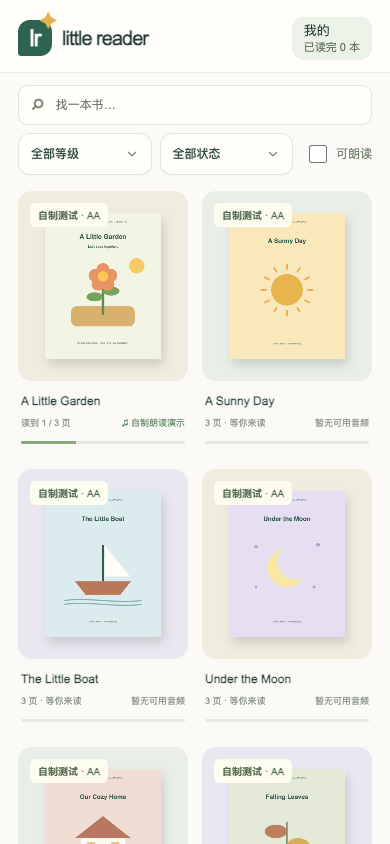
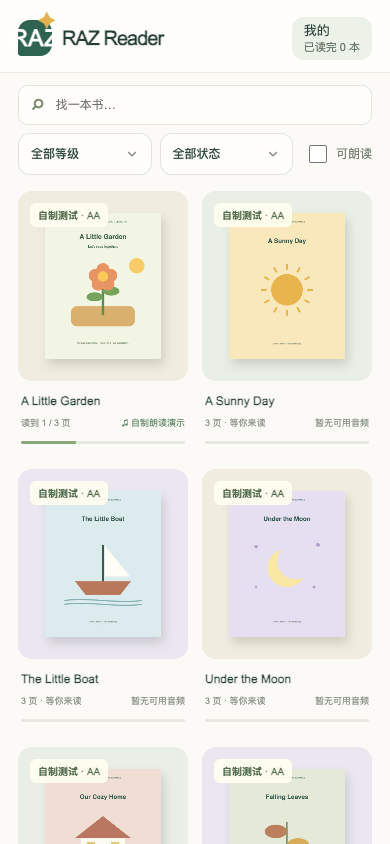
Rename project to RAZ Reader and improve RAZ discovery

Changed region(s): [[0.0308, 0.0, 0.4308, 0.0616]]

diff --git a/web/app.js b/web/app.js
@@ -1,3 +1,4 @@
+// Keep legacy storage keys so the project rename preserves existing reading preferences and pending writes.
 import * as pdfjs from '/vendor/pdfjs/build/pdf.mjs';
 import { captureProgress, pendingProgress, syncProgress, flushProgress, isLatestProgress, configureProgress } from '/progress.js';
 import { readingState, mostRecentFirst, shelfOrder } from '/reading.js';
@@ -318,13 +319,13 @@ function readerFailed() {
   setReadingControls(false);
   $('page-number').textContent = '打开失败，请重试';
   $('retry-reader').hidden = false;
-  document.title = 'Little Reader · 打开失败';
+  document.title = 'RAZ Reader · 打开失败';
 }
 function loadPDFReader() {
   cancelReaderLoad();
   const generation = renderGeneration;
   $('page-number').textContent = readerAttempts ? '正在重新打开…' : '正在打开…';
-  document.title = 'Little Reader · 正在打开';
+  document.title = 'RAZ Reader · 正在打开';
   $('pdf-frame').src = '/vendor/pdfjs/web/viewer.html?file=' + encodeURIComponent(current.pdf_url)
     + '&session=' + generation + '-' + readerAttempts;
   readerTimer = setTimeout(() => {
@@ -391,7 +392,7 @@ document.addEventListener('webviewerloaded', event => {
       app.pdfViewer.currentScaleValue = 'page-fit';
       app.page = page;
       ready = true;
-      cancelReaderLoad(); document.title = `${current.title} · Little Reader`;
+      cancelReaderLoad(); document.title = `${current.title} · RAZ Reader`;
       updatePage(page); saveProgress();
     });
     app.eventBus.on('pagechanging', event => {
@@ -588,7 +589,7 @@ $('prev').onclick = () => { pendingAudioAdvance = false; navigate(-1); };
 $('next').onclick = () => { pendingAudioAdvance = false; navigate(1); };
 $('complete').onclick = () => { if (current && ready) { current.progress.completed = true; saveProgress(); } };
 $('back').onclick = async () => {
-  cancelReaderLoad(); document.title = 'Little Reader';
+  cancelReaderLoad(); document.title = 'RAZ Reader';
   unbindWordLookup?.(); unbindWordLookup = null; wordLookup.close();
   translation.reset();
   const saved = saveProgress();

diff --git a/web/index.html b/web/index.html
@@ -2,7 +2,8 @@
 <html lang="zh-CN">
 <head>
   <meta charset="utf-8"><meta name="viewport" content="width=device-width, initial-scale=1">
-  <link rel="icon" href="/favicon.svg"><title>Little Reader · Graded Reading</title>
+  <link rel="icon" href="/favicon.svg"><title>RAZ Reader · Graded Reading &amp; Pronunciation</title>
+  <meta name="description" content="An unofficial open-source RAZ reader for graded English reading, narration, progress tracking, and pronunciation practice. Bring your own books.">
   <link rel="stylesheet" href="/app.css">
   <link rel="stylesheet" href="/reader-toolbar.css">
   <link rel="stylesheet" href="/personal-center.css">
@@ -12,7 +13,7 @@
 <body>
   <div id="shelf">
     <aside class="sidebar">
-      <div class="brand-row"><a class="brand" href="/" aria-label="Little Reader 首页"><span class="brand-icon">lr<span>✦</span></span>little reader</a><button id="open-personal-center" aria-label="登陆，进入个人中心" aria-describedby="shelf-read-count"><span class="personal-entry-text"><span id="personal-entry-label">登陆</span><small id="shelf-read-count" hidden></small></span></button></div>
+      <div class="brand-row"><a class="brand" href="/" aria-label="RAZ Reader 首页"><span class="brand-icon">RAZ<span>✦</span></span>RAZ Reader</a><button id="open-personal-center" aria-label="登陆，进入个人中心" aria-describedby="shelf-read-count"><span class="personal-entry-text"><span id="personal-entry-label">登陆</span><small id="shelf-read-count" hidden></small></span></button></div>
     </aside>
     <main class="library">
       <div class="shelf-toolbar"><div class="shelf-heading"><h2 id="level-title">全部绘本 <span id="book-count"></span></h2><p id="level-description">正在加载本地书库…</p></div><label class="search">⌕ <input id="search" type="search" placeholder="找一本书…" aria-label="搜索书名"></label></div>

diff --git a/web/app.css b/web/app.css
@@ -258,3 +258,6 @@ select{font:inherit;color:inherit;min-height:44px;border:1px solid #dce3dc;borde
 .cloud-reading #translate-page,
 .cloud-reading #word-lookup-hint,
 .cloud-reading .book-rating { display: none !important; }
+
+/* Compact RAZ wordmark; retain the original touch target and star. */
+.brand-icon{font-size:12px;letter-spacing:.5px;font-weight:800}

diff --git a/web/personal-center.js b/web/personal-center.js
@@ -1,3 +1,4 @@
+// Keep legacy storage keys so the project rename preserves existing reading preferences and pending writes.
 import { readingState, mostRecentFirst } from '/reading.js';
 import { scopeHeaders } from '/identity.js';
 const $ = id => document.getElementById(id);

diff --git a/web/progress.js b/web/progress.js
@@ -1,3 +1,4 @@
+// Keep legacy storage keys so the project rename preserves existing reading preferences and pending writes.
 // A small local outbox: only book identifiers and progress, never reading media.
 const PREFIX = 'little-reader:pending:';
 const streams = new Map();

diff --git a/scripts/prepare_demo.py b/scripts/prepare_demo.py
@@ -57,10 +57,10 @@ def artwork(c, kind):
 
 def example_pdf(path, title, kind, background, sentences):
     c=canvas.Canvas(str(path),pagesize=(600,760),invariant=1)
-    c.setTitle(title);c.setAuthor('Little Reader contributors — original example')
+    c.setTitle(title);c.setAuthor('RAZ Reader contributors — original example')
     for number, sentence in enumerate([title, *sentences],1):
         color(c,background);c.rect(0,0,600,760,fill=1,stroke=0)
-        color(c,'#365c50');c.setFont('Helvetica',11);c.drawCentredString(300,710,'LITTLE READER / ORIGINAL EXAMPLE')
+        color(c,'#365c50');c.setFont('Helvetica',11);c.drawCentredString(300,710,'RAZ READER / ORIGINAL EXAMPLE')
         c.setFont('Helvetica-Bold',32 if number==1 else 23);c.drawCentredString(300,605,sentence)
         artwork(c,kind)
         color(c,'#6f7d70');c.setFont('Helvetica',11);c.drawCentredString(300,76,'A small story. A little discovery.')

diff --git a/scripts/make_fixture.py b/scripts/make_fixture.py
@@ -64,7 +64,7 @@ def make():
     root.mkdir(parents=True, exist_ok=True)
     pdf = root / 'A Little Garden.pdf'
     c = canvas.Canvas(str(pdf), pagesize=(600, 760), invariant=1)
-    c.setTitle('A Little Garden'); c.setAuthor('Little Reader contributors — original example')
+    c.setTitle('A Little Garden'); c.setAuthor('RAZ Reader contributors — original example')
     for i, text in enumerate(TEXT):
         c.setFillColorRGB(.95, .96, .89); c.rect(0, 0, 600, 760, fill=1, stroke=0)
         c.setFillColorRGB(.24, .40, .29); c.setFont('Helvetica', 12)

diff --git a/scripts/install_mac_scorer.py b/scripts/install_mac_scorer.py
@@ -8,7 +8,7 @@ import subprocess
 import sys
 
 APP = Path(__file__).resolve().parents[1]
-LABEL = 'org.littlereader.scorer'
+LABEL = 'org.razreader.scorer'
 
 
 def main():

diff --git a/docs/DEPLOYMENT.md b/docs/DEPLOYMENT.md
@@ -6,7 +6,7 @@ Use a domain you control and a server you manage. All domains below are placehol
 
 ## 1. Prepare the server
 
-On Linux, install the prerequisites in the README and place a clean clone at `/srv/little-reader`. Run `./scripts/bootstrap.sh` as the dedicated service user. Install the optional language/scoring environments if needed. The scoring environment requires Python 3.11 and enough disk/RAM for PyTorch and the model; it is not included in the basic demo.
+On Linux, install the prerequisites in the README and place a clean clone at `/srv/raz-reader`. Run `./scripts/bootstrap.sh` as the dedicated service user. Install the optional language/scoring environments if needed. The scoring environment requires Python 3.11 and enough disk/RAM for PyTorch and the model; it is not included in the basic demo.
 
 To use your books, import them **on that server** with `scripts/import_library.py --root ...`. Manifests contain absolute local paths; copying a manifest from another machine without rebuilding it will not relocate its sources. Books and any generated media must be readable by the service user.
 
@@ -26,7 +26,7 @@ Replace `reader.example.com` with your domain. Run the command under your proces
 
 ## 2. Put Caddy in front
 
-Point your domain's DNS to the server and make ports 80/443 reachable. Adapt [deploy/Caddyfile.example](../deploy/Caddyfile.example) to your domain and clone location. The web root must be `/srv/little-reader/web`, **not** `/srv/little-reader` or its `data` directory.
+Point your domain's DNS to the server and make ports 80/443 reachable. Adapt [deploy/Caddyfile.example](../deploy/Caddyfile.example) to your domain and clone location. The web root must be `/srv/raz-reader/web`, **not** `/srv/raz-reader` or its `data` directory.
 
 Caddy serves the static app, forwards `/api/*` to loopback, preserves the public Host/Origin and passes the real client address. Valid HTTPS is needed for secure account cookies and microphone access. Do not expose port 8765 directly to the internet. `https://reader.example.com/api/health` should report `cloud_full`; then test registration, recording and a second browser's account isolation.
 
@@ -68,18 +68,18 @@ PY
 python3 scripts/install_mac_scorer.py
 ```
 
-The launchd label is `org.littlereader.scorer`. It starts at user login, restarts on failure, and permits normal sleep. It does not open a Mac port or require a tunnel. Check private local logs under `data/mac-scorer/`; do not publish those files.
+The launchd label is `org.razreader.scorer`. It starts at user login, restarts on failure, and permits normal sleep. It does not open a Mac port or require a tunnel. Check private local logs under `data/mac-scorer/`; do not publish those files.
 
 Stop acceleration while leaving cloud scoring available:
 
 ```bash
-launchctl bootout gui/$(id -u)/org.littlereader.scorer
+launchctl bootout gui/$(id -u)/org.razreader.scorer
 ```
 
 Restore it:
 
 ```bash
-launchctl bootstrap gui/$(id -u) "$HOME/Library/LaunchAgents/org.littlereader.scorer.plist"
+launchctl bootstrap gui/$(id -u) "$HOME/Library/LaunchAgents/org.razreader.scorer.plist"
 ```
 
 An absent/busy Mac goes directly to the server; an interrupted assigned job falls back after its heartbeat lease expires. A total deadline also bounds a connected-but-stuck worker. Test both paths with your own short recording before relying on this setup. The server remains necessary even while the Mac is online.

diff --git a/README.md b/README.md
@@ -1,23 +1,23 @@
 <div align="center">
 
-# Little Reader
+# RAZ Reader — Open-source RAZ Reading & Pronunciation Practice
 
-**A quiet place to read, listen, and practice English.**
+**Read RAZ-style graded books. Listen, practice, and track your progress.**
 
 Self-hosted graded reading · Personal progress · Offline speech models · Optional Mac acceleration
 
 [English](README.md) · [简体中文](README.zh-CN.md)
 
-[![Checks](https://github.com/aotefan/little-reader/actions/workflows/ci.yml/badge.svg)](https://github.com/aotefan/little-reader/actions/workflows/ci.yml)
+[![Checks](https://github.com/aotefan/raz-reader/actions/workflows/ci.yml/badge.svg)](https://github.com/aotefan/raz-reader/actions/workflows/ci.yml)
 [![License: Apache-2.0](https://img.shields.io/badge/source_license-Apache--2.0-365c50)](LICENSE)
 
 </div>
 
-Little Reader turns **your own PDF books** into a reading library that works on phones, tablets, and computers. Read a page, listen to its available narration, look up a word, and record yourself for pronunciation feedback. A compact interface keeps the book in focus.
+RAZ Reader is an **unofficial, open-source RAZ reading app** for English learners. It turns **your own PDF books** into a graded reading library that works on phones, tablets, and computers. Read a page, listen to its available narration, look up a word, and record yourself for pronunciation feedback. A compact interface keeps the book in focus.
 
 **This repository contains application source code, not a RAZ book collection.** No commercial books, book audio, user recordings, account databases, model weights, production configuration, or API credentials are included. The screenshots below use original example stories and vector artwork generated by this project.
 
-![Little Reader bookshelf with six original example stories](docs/screenshots/bookshelf-desktop.png)
+![RAZ Reader bookshelf with six original example stories](docs/screenshots/bookshelf-desktop.png)
 
 ## A closer look
 
@@ -65,8 +65,8 @@ sudo apt-get install python3 python3-venv poppler-utils qpdf ffmpeg espeak-ng te
 ### Start
 
 ```bash
-git clone https://github.com/aotefan/little-reader.git
-cd little-reader
+git clone https://github.com/aotefan/raz-reader.git
+cd raz-reader
 ./scripts/bootstrap.sh
 ./scripts/start.sh
 ```
@@ -170,4 +170,4 @@ This first public release is a self-hosted web app. An Android package, complete
 
 Original application code and original example text/art are under [Apache-2.0](LICENSE). Third-party components retain their own licenses; the repository is **not a claim that every dependency is Apache-2.0**. See [THIRD_PARTY_NOTICES.md](THIRD_PARTY_NOTICES.md) and [UPSTREAM.json](UPSTREAM.json). Optional model weights, dictionaries and external tools have their own terms and are not bundled here.
 
-Little Reader is an independent project. It is not affiliated with or endorsed by Learning A–Z, Raz-Kids, or Reading A–Z. No RAZ learning materials are distributed in this repository.
+RAZ Reader is an independent project. It is not affiliated with or endorsed by Learning A–Z, Raz-Kids, or Reading A–Z. No RAZ learning materials are distributed in this repository.

diff --git a/docs/DEPLOYMENT.zh-CN.md b/docs/DEPLOYMENT.zh-CN.md
@@ -6,7 +6,7 @@
 
 ## 1. 准备服务器
 
-按 README 安装 Linux 依赖，把项目放在 `/srv/little-reader`，使用专用服务用户运行 `./scripts/bootstrap.sh`。需要翻译和评分时另装可选环境；评分需要 Python 3.11，以及足够容纳 PyTorch 和模型的磁盘、内存。
+按 README 安装 Linux 依赖，把项目放在 `/srv/raz-reader`，使用专用服务用户运行 `./scripts/bootstrap.sh`。需要翻译和评分时另装可选环境；评分需要 Python 3.11，以及足够容纳 PyTorch 和模型的磁盘、内存。
 
 自己的资料必须在这台服务器上运行 `scripts/import_library.py --root ...` 导入。书目包含绝对路径，不能直接把 Mac 的书目复制过去就当资料迁移完成。服务用户须能读取相应绘本与音频。
 
@@ -26,7 +26,7 @@ python3 -m engine.server \
 
 ## 2. 配置 HTTPS 入口
 
-域名解析到服务器，开放 80/443。按实际路径和域名修改 [Caddy 配置示例](../deploy/Caddyfile.example)。网站根目录必须是 `/srv/little-reader/web`，不能是整个项目或 `data`。
+域名解析到服务器，开放 80/443。按实际路径和域名修改 [Caddy 配置示例](../deploy/Caddyfile.example)。网站根目录必须是 `/srv/raz-reader/web`，不能是整个项目或 `data`。
 
 Caddy 公开静态界面，把 `/api/*` 转给回环地址后端，保留公网 Host / Origin 并传递真实客户端地址。账号 Cookie 和麦克风需要有效 HTTPS；不要把 8765 直接开放到公网。访问 `https://reader.example.com/api/health` 应显示 `cloud_full`，再验证注册、录音及第二个浏览器的数据隔离。
 
@@ -46,18 +46,18 @@ Caddy 公开静态界面，把 `/api/*` 转给回环地址后端，保留公网 
 python3 scripts/install_mac_scorer.py
 ```
 
-启动项名称是 `org.littlereader.scorer`，用户登录后启动，异常退出后重启，不阻止正常休眠。不需要 Mac 入站端口或公开隧道，日志在被忽略的 `data/mac-scorer/` 内，不应公开。
+启动项名称是 `org.razreader.scorer`，用户登录后启动，异常退出后重启，不阻止正常休眠。不需要 Mac 入站端口或公开隧道，日志在被忽略的 `data/mac-scorer/` 内，不应公开。
 
 停用 Mac 辅助评分，服务器继续工作：
 
 ```bash
-launchctl bootout gui/$(id -u)/org.littlereader.scorer
+launchctl bootout gui/$(id -u)/org.razreader.scorer
 ```
 
 恢复：
 
 ```bash
-launchctl bootstrap gui/$(id -u) "$HOME/Library/LaunchAgents/org.littlereader.scorer.plist"
+launchctl bootstrap gui/$(id -u) "$HOME/Library/LaunchAgents/org.razreader.scorer.plist"
 ```
 
 Mac 缺席或繁忙直接走服务器；已领取任务后失联，心跳租约到期后回到服务器；持续连接但卡住还受总超时限制。正式使用前用自己的短录音验证两个路径。Mac 在线也不能代替网站服务器。

diff --git a/THIRD_PARTY_NOTICES.md b/THIRD_PARTY_NOTICES.md
@@ -1,6 +1,6 @@
 # Third-party components and notices
 
-Original Little Reader source and original example text/vector artwork are distributed under [Apache-2.0](LICENSE). Each third-party component retains its own license. This document identifies bundled code and optional external components; it does not license any user's books or audio.
+Original RAZ Reader source and original example text/vector artwork are distributed under [Apache-2.0](LICENSE). Each third-party component retains its own license. This document identifies bundled code and optional external components; it does not license any user's books or audio.
 
 ## Included browser components
 
@@ -10,7 +10,7 @@ Original Little Reader source and original example text/vector artwork are distr
 
 ## Optional installed components — not bundled as binaries or model weights
 
-- **OpenPronounce 0.3.0**, MIT, copyright Jean-François Lépine. Source revision `74bc17ea406e6f057f15eea0e70951e1931af868` is pinned in the requirements. Little Reader uses the phoneme APIs and adapted weighted scoring, not the upstream online TTS/full-score path. See `THIRD_PARTY_LICENSES/OpenPronounce-MIT.txt`.
+- **OpenPronounce 0.3.0**, MIT, copyright Jean-François Lépine. Source revision `74bc17ea406e6f057f15eea0e70951e1931af868` is pinned in the requirements. RAZ Reader uses the phoneme APIs and adapted weighted scoring, not the upstream online TTS/full-score path. See `THIRD_PARTY_LICENSES/OpenPronounce-MIT.txt`.
 - **Phonemizer** (GPL-3.0), **eSpeak NG** (GPL-3.0), and **Levenshtein** (GPL-2.0-or-later) are part of the optional speech toolchain. Phonemizer and Levenshtein license texts are retained under `THIRD_PARTY_LICENSES/`. Their licenses are not replaced by the application's license; binary/container distributors must account for the actual components they distribute.
 - The optional **facebook/wav2vec2-lv-60-espeak-cv-ft** model is downloaded from the revision pinned in `scripts/install_assessment_model.py`; its upstream model card identifies Apache-2.0. The installer retains the model card locally. Weights are not committed.
 - **ECDICT** is downloaded from pinned revision `bc015ed2e24a7abef49fc6dbbb7fe32c1dadaf8b`; upstream declares MIT. Its original license is retained. The data incorporates multiple sources: this project does not independently clear every underlying entry or redistribute the database.
